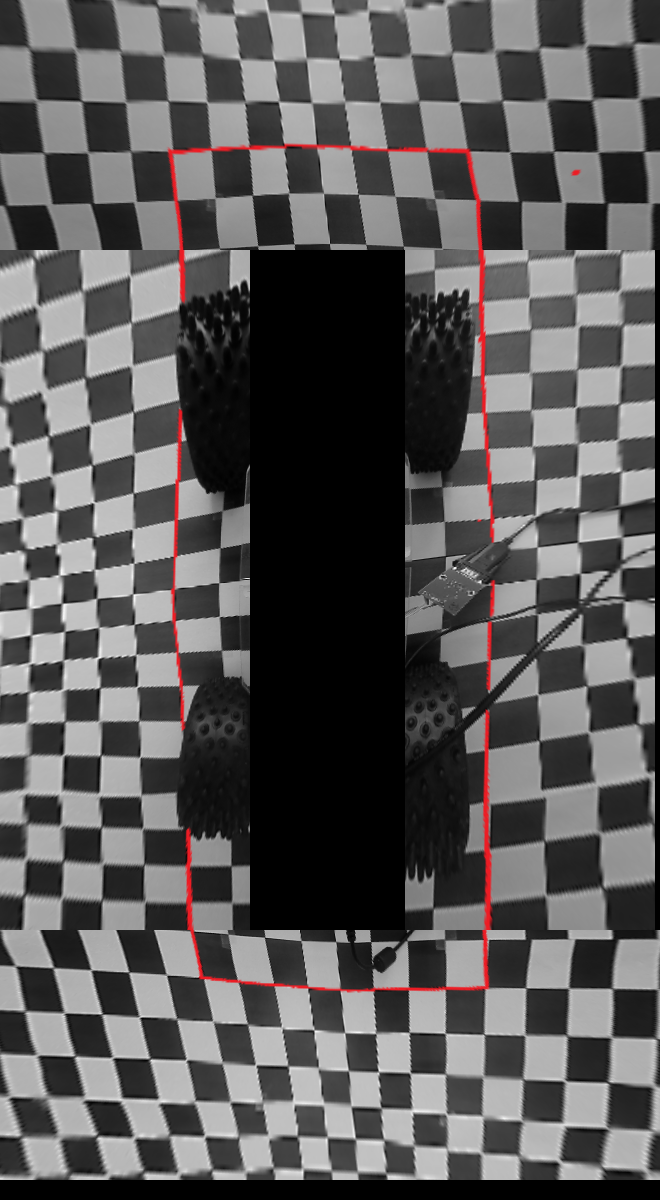
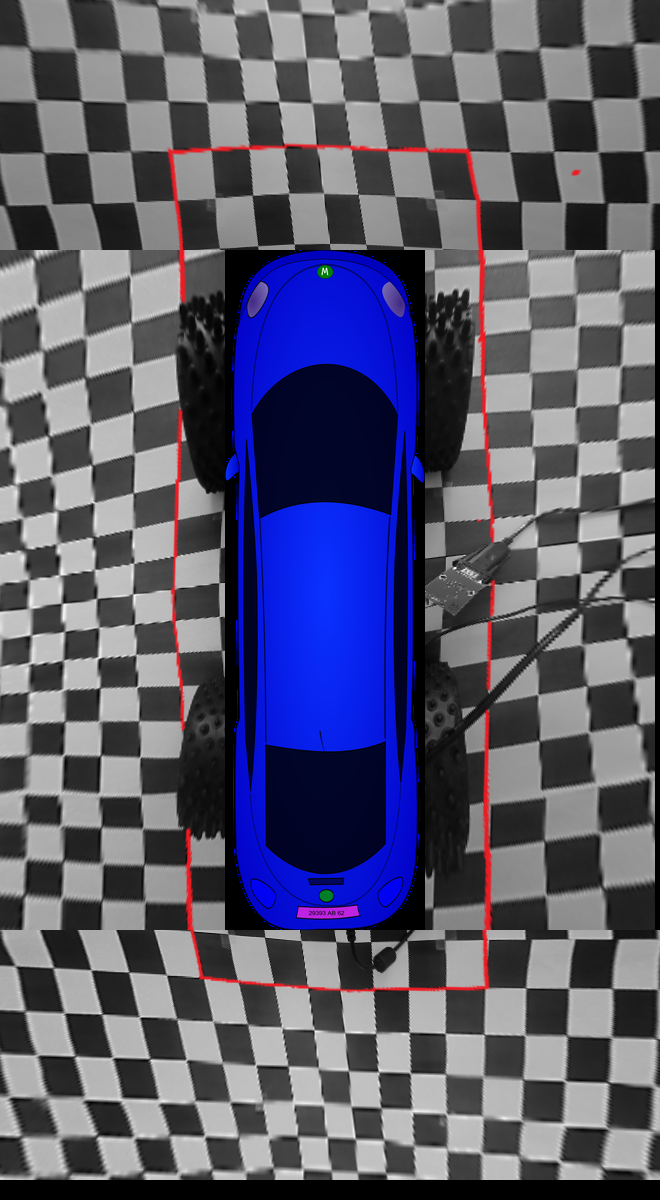
addedCar/alphaGraphic

Changed region(s): [[0.3333, 0.185, 0.6667, 0.8017]]

diff --git a/test.cpp b/test.cpp
@@ -122,6 +122,14 @@ void mergeImagesFourPoints(Mat* stitched, Mat front, Mat right, Mat back, Mat le
       (*stitched).at<cv::Vec3b>(i+930,j-110) = (back).at<cv::Vec3b>(i,j);  
       //-110 saving on stitched image starts at zero pixel 
   }
+  
+  //car Image placing
+  for (j = 0; j<680;j++)
+  for(i = 0; i<200;i++)
+  {
+      (*stitched).at<cv::Vec3b>(j+250,i+225) = (car).at<cv::Vec3b>(j,i);  
+      //-110 saving on stitched image starts at zero pixel 
+  }
 
 
   imwrite("stitched1.png",*stitched);
@@ -199,9 +207,12 @@ int main ()
   Mat frontUnd;
   Mat back = imread("paintLinedPictures/backPaint.bmp", IMREAD_COLOR);
   Mat backUnd;
-  Mat car = imread ("blueCarResized.png", IMREAD_COLOR);
+  Mat car = imread ("car1.png", IMREAD_COLOR);
+  // imshow("car",car);
+  // waitKey(0);
   Mat stitched(1200, 660, CV_8UC3, Scalar(0, 0, 0));  
   // setAlpha(&stitched);
+  // setAlpha(&car);
   //init undistort rectify params
   Matx33d P (335.4360116970886, 0.0, 638.3853408401494 ,
                0.0, 335.6314521829435, 403.2844174394132,
